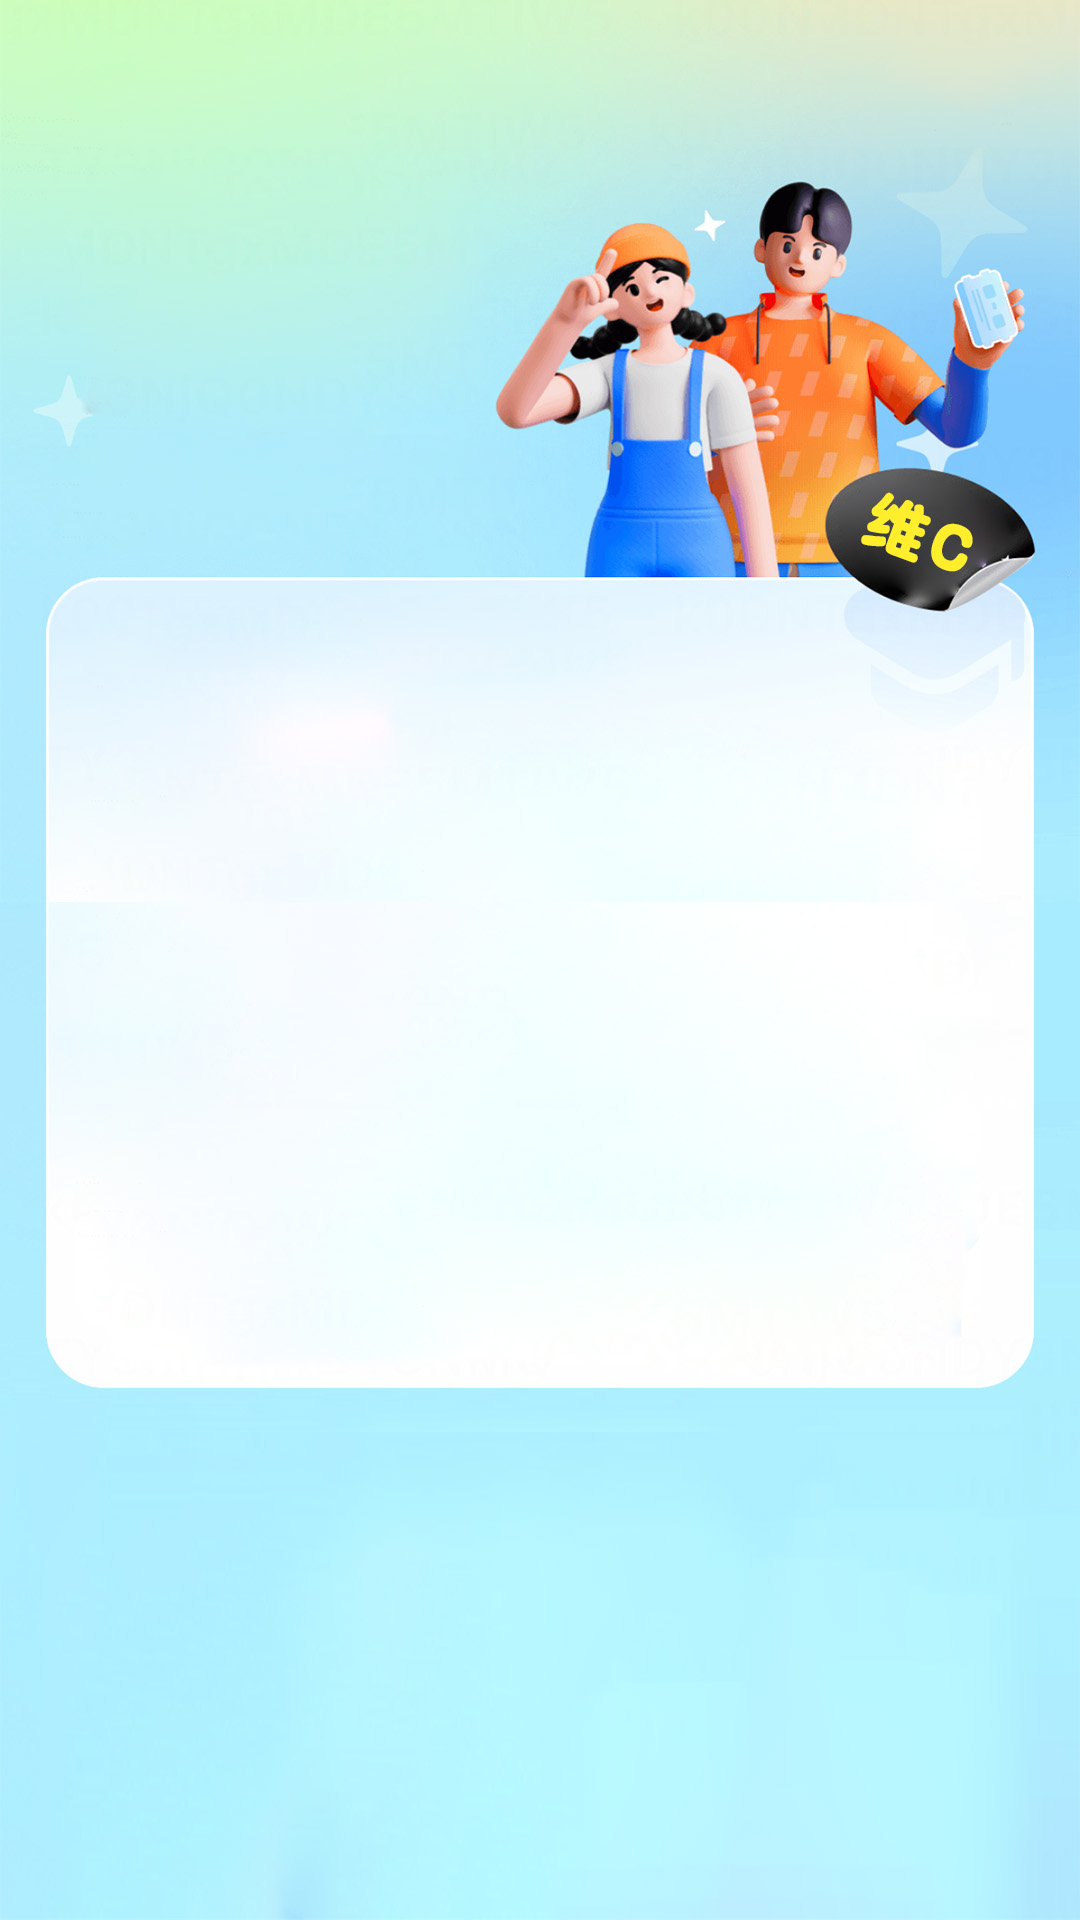
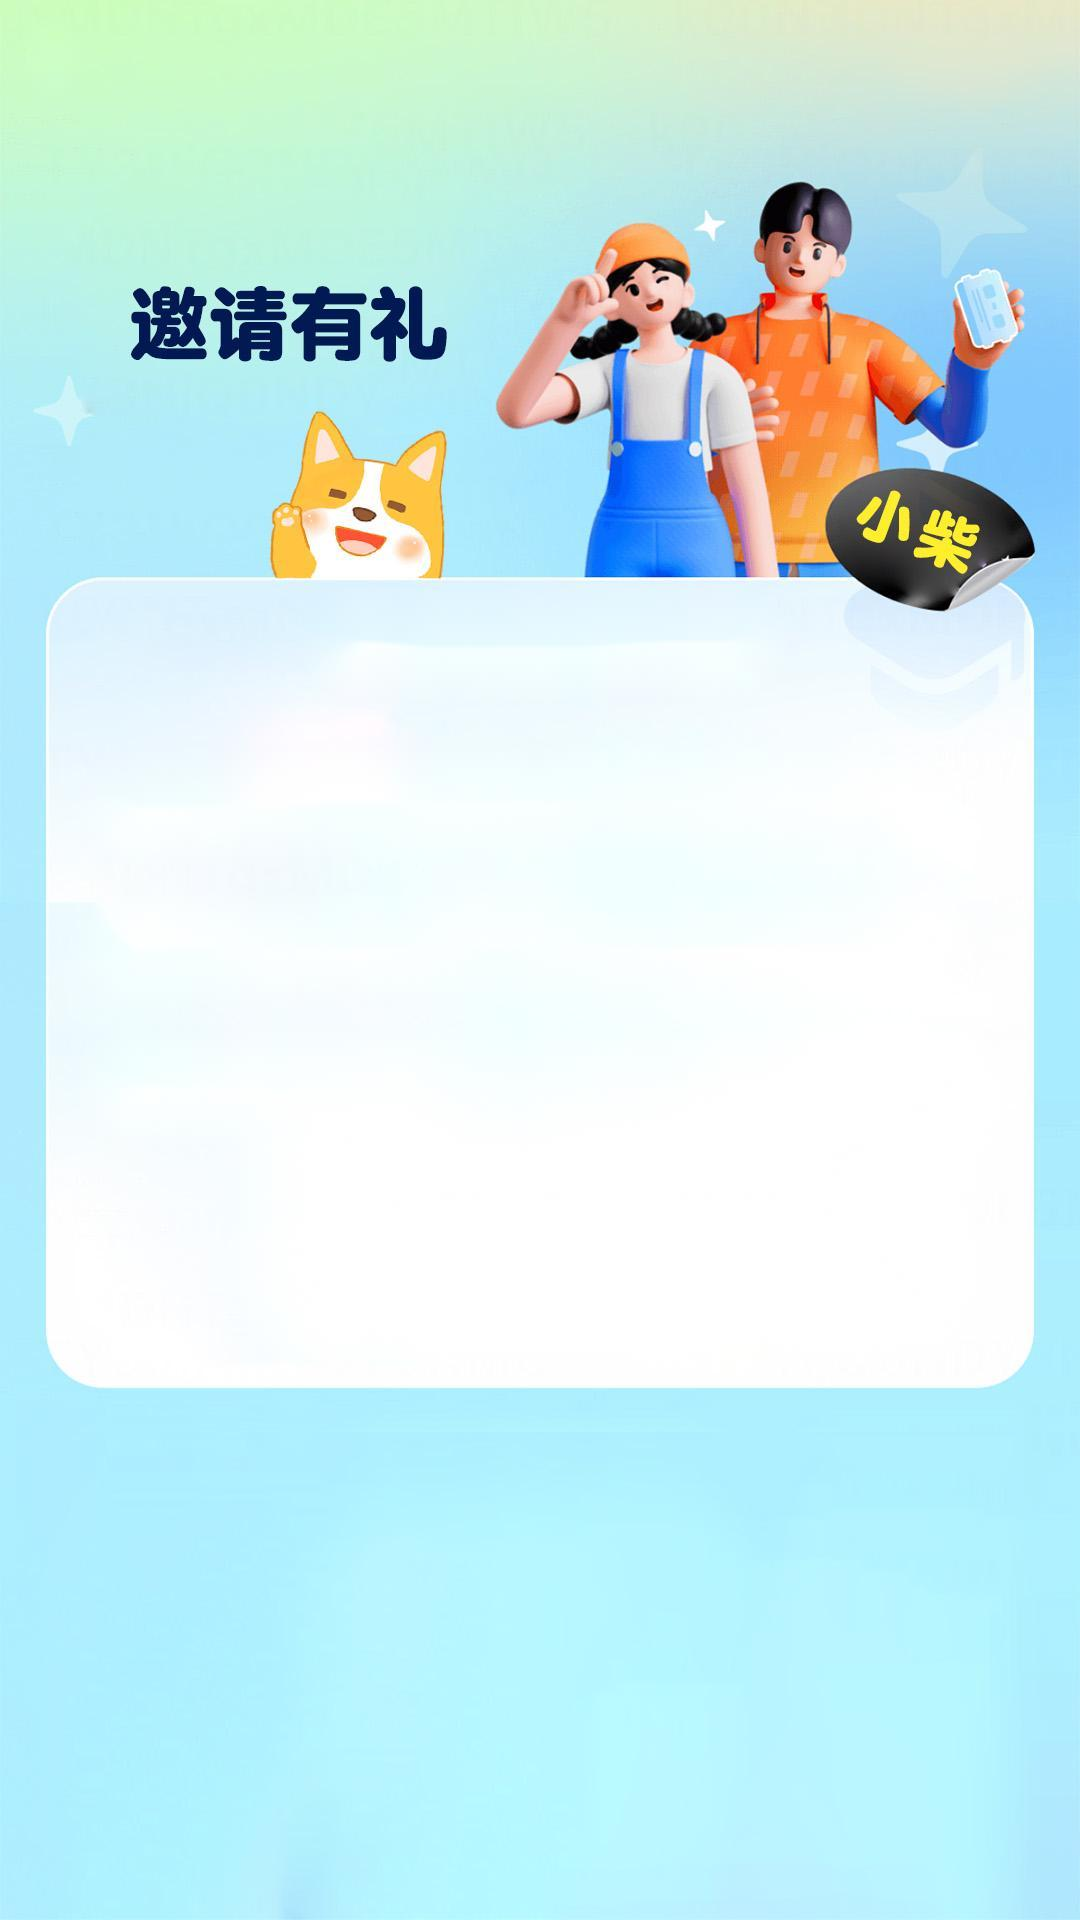
修复已知问题

diff --git a/lib/pages/mine/zhuangban/show_liwu_page.dart b/lib/pages/mine/zhuangban/show_liwu_page.dart
@@ -59,7 +59,7 @@ class _ShowLiWuPageState extends State<ShowLiWuPage> {
             ),
           )),
           Container(
-            height: 650.h,
+            height: widget.imgSVGAUrl.isNotEmpty ? 650.h : 550.h,
             width: double.infinity,
             padding: EdgeInsets.only(left: 30.h, right: 20.h),
             decoration: const BoxDecoration(
@@ -73,26 +73,28 @@ class _ShowLiWuPageState extends State<ShowLiWuPage> {
             child: Column(
               children: [
                 WidgetUtils.commonSizedBox(20.h, 20.w),
-                widget.imgSVGAUrl.isNotEmpty ? GestureDetector(
-                  onTap: (() {
-                    setState(() {
-                      isShow = true;
-                    });
-                  }),
-                  child: Row(
-                    children: [
-                      const Spacer(),
-                      WidgetUtils.showImages(
-                          'assets/images/zb_show.png', 44.h, 157.w),
-                      WidgetUtils.commonSizedBox(0, 20.w),
-                    ],
-                  ),
-                ) : const Text(''),
+                widget.imgSVGAUrl.isNotEmpty
+                    ? GestureDetector(
+                        onTap: (() {
+                          setState(() {
+                            isShow = true;
+                          });
+                        }),
+                        child: Row(
+                          children: [
+                            const Spacer(),
+                            WidgetUtils.showImages(
+                                'assets/images/zb_show.png', 44.h, 157.w),
+                            WidgetUtils.commonSizedBox(0, 20.w),
+                          ],
+                        ),
+                      )
+                    : const Text(''),
                 isShow == false
                     ? WidgetUtils.showImagesNet(
                         widget.imgUrl,
-                        ScreenUtil().setHeight(200),
-                        ScreenUtil().setHeight(200))
+                        widget.imgSVGAUrl.isNotEmpty ? 200.h : 100.h,
+                        widget.imgSVGAUrl.isNotEmpty ? 200.h : 100.h)
                     : const Text(''),
                 isShow
                     ? SizedBox(
@@ -349,7 +351,7 @@ class _ShowLiWuPageState extends State<ShowLiWuPage> {
 
   /// 购买装扮
   Future<void> doPostBuyDress() async {
-    if(isChoose == false){
+    if (isChoose == false) {
       MyToastUtils.showToastBottom('请选择要购买的装扮');
       return;
     }

diff --git a/lib/pages/mine/zhuangban/qipao_page.dart b/lib/pages/mine/zhuangban/qipao_page.dart
@@ -120,7 +120,7 @@ class _QipaoPageState extends State<QipaoPage>  with AutomaticKeepAliveClientMix
       }),
       child: Container(
         width: ScreenUtil().setHeight(211),
-        height: ScreenUtil().setHeight(325),
+        height: ScreenUtil().setHeight(230),
         alignment: Alignment.center,
         decoration: const BoxDecoration(
           //设置Container修饰
@@ -135,20 +135,20 @@ class _QipaoPageState extends State<QipaoPage>  with AutomaticKeepAliveClientMix
             WidgetUtils.commonSizedBox(20, 20),
             WidgetUtils.showImagesNet(
                 _list[i].img!,
-                ScreenUtil().setHeight(200),
-                ScreenUtil().setHeight(200)),
+                ScreenUtil().setHeight(100),
+                ScreenUtil().setHeight(100)),
             WidgetUtils.commonSizedBox(10, 20),
             WidgetUtils.onlyTextCenter(
                 _list[i].name!,
                 StyleUtils.getCommonTextStyle(
                     color: Colors.white,
                     fontSize: ScreenUtil().setSp(25))),
+            WidgetUtils.commonSizedBox(10.h, 20),
             WidgetUtils.onlyTextCenter(
                 _list[i].status == 1 ? '有效时长：永久' : '有效时长：${_list[i].useDay}天',
                 StyleUtils.getCommonTextStyle(
                     color: Colors.white,
                     fontSize: ScreenUtil().setSp(25))),
-            WidgetUtils.commonSizedBox(10, 20),
           ],
         ),
       ),

diff --git a/lib/pages/mine/zhuangban/qipao_bb_page.dart b/lib/pages/mine/zhuangban/qipao_bb_page.dart
@@ -100,7 +100,7 @@ class _QiPaoBBPageState extends State<QiPaoBBPage>  with AutomaticKeepAliveClien
       }),
       child: Container(
         width: ScreenUtil().setHeight(211),
-        height: ScreenUtil().setHeight(325),
+        height: ScreenUtil().setHeight(230),
         alignment: Alignment.center,
         decoration: BoxDecoration(
           //设置Container修饰
@@ -117,20 +117,20 @@ class _QiPaoBBPageState extends State<QiPaoBBPage>  with AutomaticKeepAliveClien
             WidgetUtils.commonSizedBox(20, 20),
             WidgetUtils.showImagesNet(
                 _list2[i].img!,
-                ScreenUtil().setHeight(200),
-                ScreenUtil().setHeight(200)),
+                ScreenUtil().setHeight(100),
+                ScreenUtil().setHeight(100)),
             WidgetUtils.commonSizedBox(10, 20),
             WidgetUtils.onlyTextCenter(
                 _list2[i].name!,
                 StyleUtils.getCommonTextStyle(
                     color: Colors.white,
                     fontSize: ScreenUtil().setSp(25))),
+            WidgetUtils.commonSizedBox(10.h, 20),
             WidgetUtils.onlyTextCenter(
                 _list2[i].isLong == 1 ? '有效时长：永久' : '到期：${_list2[i].expireTime}',
                 StyleUtils.getCommonTextStyle(
                     color: Colors.white,
                     fontSize: ScreenUtil().setSp(25))),
-            WidgetUtils.commonSizedBox(10, 20),
           ],
         ),
       ),

diff --git a/lib/pages/mine/my/yqyl_sq_page.dart b/lib/pages/mine/my/yqyl_sq_page.dart
@@ -37,7 +37,7 @@ class _YQYLSQPageState extends State<YQYLSQPage> {
   void initState() {
     // TODO: implement initState
     super.initState();
-    appBar = WidgetUtils.getAppBar('全民代理', true, context, false, 0);
+    appBar = WidgetUtils.getAppBar('邀请有礼', true, context, false, 0);
   }
 
   @override
@@ -53,11 +53,12 @@ class _YQYLSQPageState extends State<YQYLSQPage> {
             children: [
               WidgetUtils.commonSizedBox(130.h, 0),
               Container(
+                height: 120.h,
                 width: double.infinity,
                 alignment: Alignment.centerLeft,
                 margin: EdgeInsets.only(top: 80.h, left: 60.h),
                 child: WidgetUtils.onlyText(
-                    '全民代理\n火热招募中',
+                    '',
                     TextStyle(
                         fontSize: ScreenUtil().setSp(55),
                         color: MyColors.yzZi1,

diff --git a/lib/pages/mine/bigclient/bigclient_page.dart b/lib/pages/mine/bigclient/bigclient_page.dart
@@ -3,9 +3,11 @@ import 'package:flutter/material.dart';
 import 'package:flutter_screenutil/flutter_screenutil.dart';
 import 'package:get/get.dart';
 import 'package:svgaplayer_flutter/player.dart';
+import 'package:yuyinting/colors/my_colors.dart';
 import 'package:yuyinting/utils/loading.dart';
 // ignore: import_of_legacy_library_into_null_safe
 import 'package:flutter_swiper/flutter_swiper.dart';
+import 'package:yuyinting/utils/style_utils.dart';
 
 import '../../../main.dart';
 import '../../../utils/my_utils.dart';
@@ -89,6 +91,8 @@ class _BigClientPageBody extends StatelessWidget {
               ],
             ),
           ),
+          WidgetUtils.onlyTextCenter('注:金豆俸禄将在您达到等级要求后，每日18点发放至本页', StyleUtils.getCommonTextStyle(color: MyColors.mineYellow, fontSize: 24.sp)),
+          WidgetUtils.commonSizedBox(20.h, 0),
         ],
       ),
     );

diff --git a/lib/pages/mine/daili/daili_home_page.dart b/lib/pages/mine/daili/daili_home_page.dart
@@ -1,15 +1,12 @@
 import 'package:flutter/material.dart';
 import 'package:flutter_screenutil/flutter_screenutil.dart';
 import 'package:yuyinting/pages/mine/daili/baobiao_page.dart';
-import 'package:yuyinting/pages/mine/daili/kaihui_page.dart';
 import 'package:yuyinting/pages/mine/daili/tuiguang_page.dart';
 import 'package:yuyinting/pages/mine/daili/zonglan_page.dart';
-
 import '../../../colors/my_colors.dart';
-import '../../../utils/style_utils.dart';
 import '../../../utils/widget_utils.dart';
 
-/// 全民代理
+/// 邀请有礼
 class DailiHomePage extends StatefulWidget {
   const DailiHomePage({Key? key}) : super(key: key);
 

diff --git a/lib/pages/mine/qianbao/wallet_page.dart b/lib/pages/mine/qianbao/wallet_page.dart
@@ -492,6 +492,10 @@ class _WalletPageState extends State<WalletPage> {
       _WalletPageAction(
         title: '提现',
         action: () {
+          if(sp.getString('user_identity').toString() == 'user'){
+            MyToastUtils.showToastBottom('非公会主播不可提现~');
+            return;
+          }
           if (sp.getString('shimingzhi').toString() == '1') {
             if (MyUtils.checkClick()) {
               Navigator.push(context, MaterialPageRoute(builder: (context) {

diff --git a/lib/pages/home/home_page.dart b/lib/pages/home/home_page.dart
@@ -149,6 +149,13 @@ class _HomePageState extends State<HomePage>
     // MyUtils.goTransparentPage(context, CeShiPage());
   }
 
+  @override
+  void dispose() {
+    listen.cancel();
+    // TODO: implement dispose
+    super.dispose();
+  }
+
   Future<void> quanxian() async {
     if (Platform.isAndroid) {
       var androidInfo = await DeviceInfoPlugin().androidInfo;
